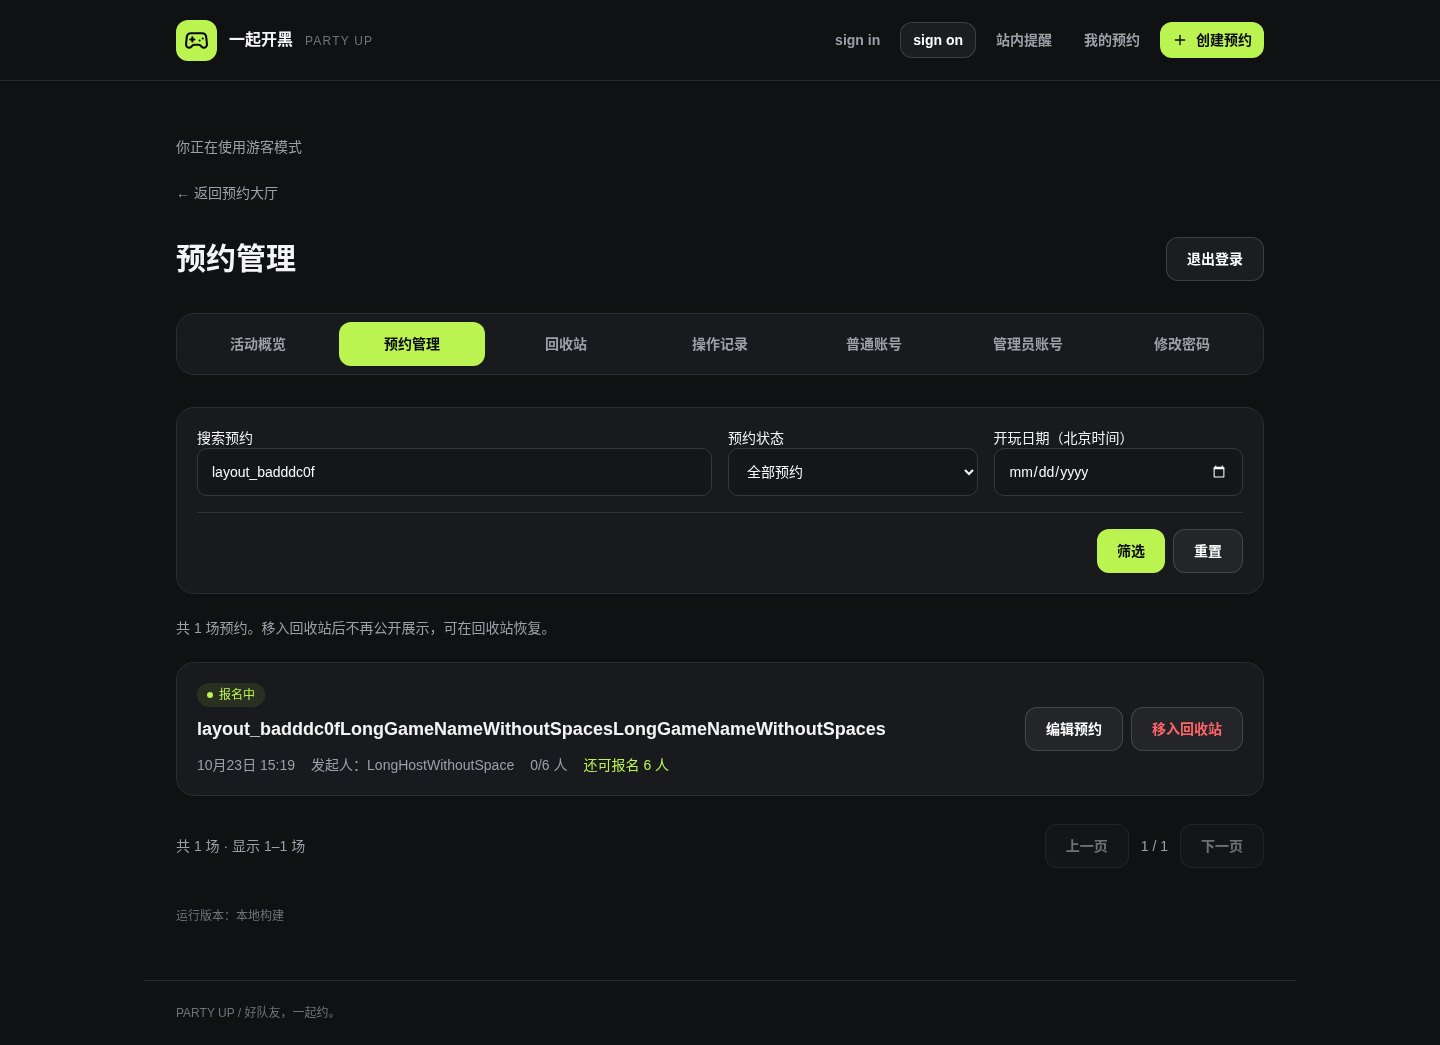
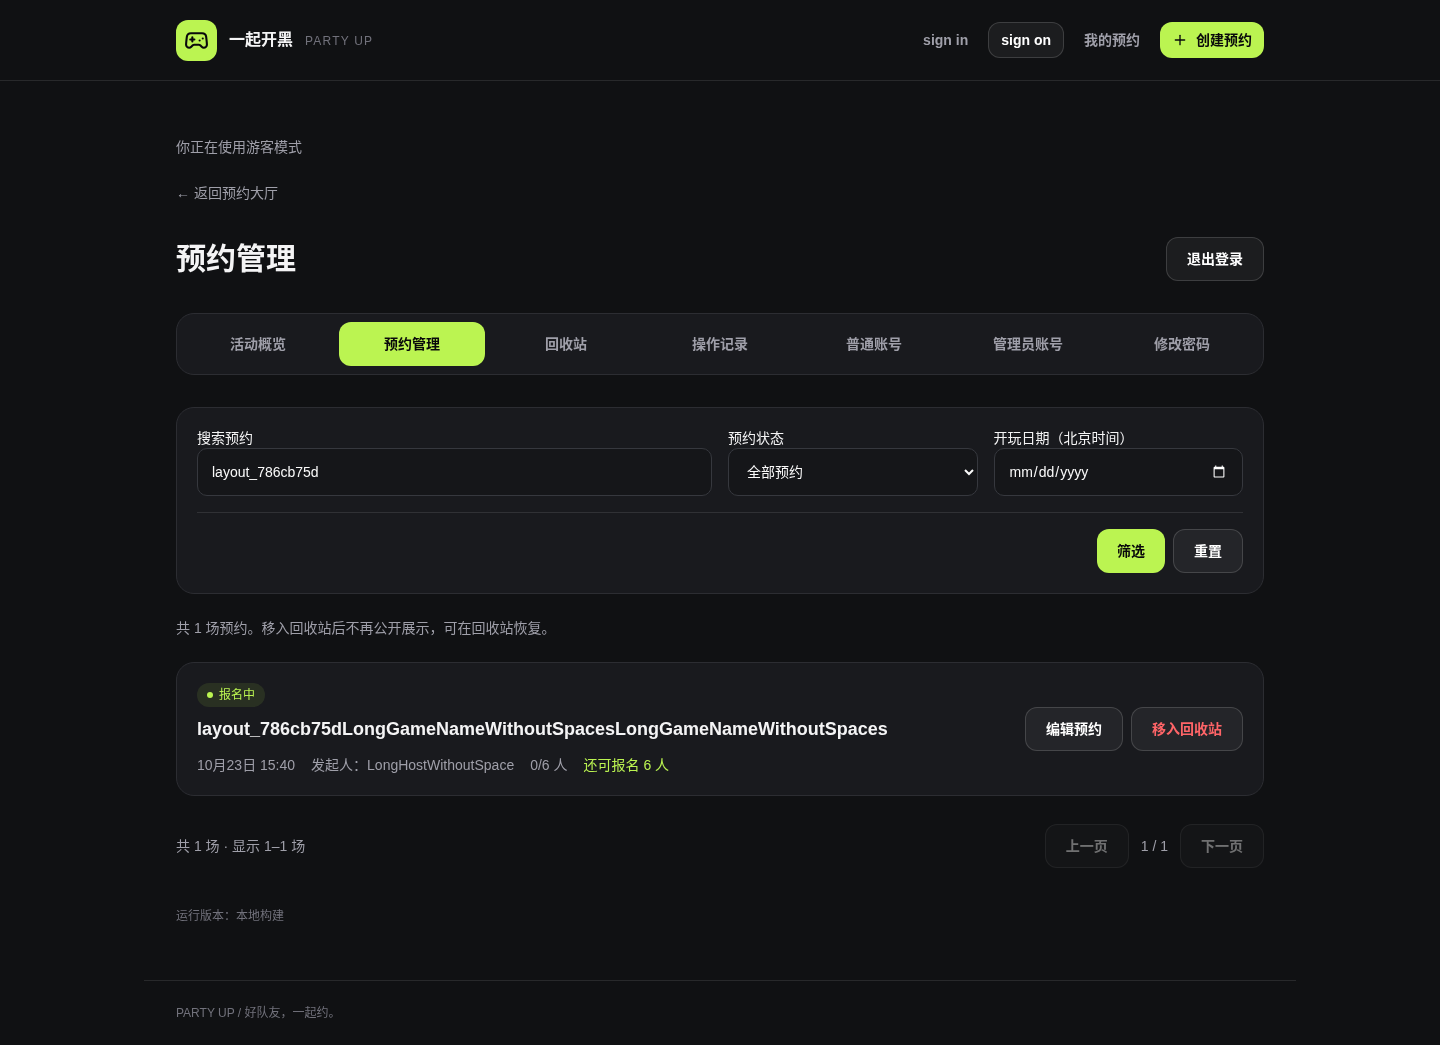
fix: hide notification navigation for guests

Changed region(s): [[0.1875, 0.6737, 0.625, 0.7043], [0.625, 0.0306, 0.75, 0.0612], [0.1875, 0.4287, 0.2188, 0.4593]]

diff --git a/app/layout.tsx b/app/layout.tsx
@@ -22,9 +22,12 @@ export default async function RootLayout({
 }) {
   const current = await currentPageViewer();
   const viewer = publicViewer(current);
-  const unread = await unreadNotificationCount(
-    current.user?.mustChangePassword ? undefined : current.token,
-  );
+  const unread =
+    viewer.mode === "user"
+      ? await unreadNotificationCount(
+          current.user?.mustChangePassword ? undefined : current.token,
+        )
+      : 0;
   return (
     <html lang="zh-CN">
       <body>
@@ -47,16 +50,18 @@ export default async function RootLayout({
                 className="flex flex-wrap items-center gap-2"
               >
                 <AccountNavigation />
-                <Button asChild size="sm" variant="ghost">
-                  <Link
-                    href="/notifications"
-                    prefetch={false}
-                    aria-label="站内提醒"
-                  >
-                    站内提醒
-                    {unread > 0 ? ` (${unread > 99 ? "99+" : unread})` : ""}
-                  </Link>
-                </Button>
+                {viewer.mode === "user" && (
+                  <Button asChild size="sm" variant="ghost">
+                    <Link
+                      href="/notifications"
+                      prefetch={false}
+                      aria-label="站内提醒"
+                    >
+                      站内提醒
+                      {unread > 0 ? ` (${unread > 99 ? "99+" : unread})` : ""}
+                    </Link>
+                  </Button>
+                )}
                 <Button asChild size="sm" variant="ghost">
                   <Link href="/my-reservations" prefetch={false}>
                     我的预约

diff --git a/tests/e2e/notifications.spec.ts b/tests/e2e/notifications.spec.ts
@@ -73,9 +73,17 @@ test("guest notifications show committed changes, persist read state, and stay i
       { reason: "不应出现在提醒的取消原因" },
       owner,
     );
+    await page.goto("/");
+    const navigation = page.getByRole("navigation", { name: "主导航" });
+    await expect(
+      navigation.getByRole("link", { name: "站内提醒", exact: true }),
+    ).toHaveCount(0);
     await context.addCookies([{ ...browserCookie(guest), url: baseURL! }]);
     await page.goto("/");
-    await page.getByRole("link", { name: "站内提醒", exact: true }).click();
+    await expect(
+      navigation.getByRole("link", { name: "站内提醒", exact: true }),
+    ).toHaveCount(0);
+    await page.goto("/notifications");
     await expect(
       page.getByRole("heading", { name: "我的提醒", exact: true }),
     ).toBeVisible();
@@ -288,7 +296,11 @@ test("partial guest claims transfer only selected reservation notifications to t
       { ...browserCookie(member), url: baseURL! },
     ]);
     const accountPage = await accountContext.newPage();
-    await accountPage.goto("/notifications");
+    await accountPage.goto("/");
+    await accountPage
+      .getByRole("navigation", { name: "主导航" })
+      .getByRole("link", { name: "站内提醒", exact: true })
+      .click();
     await expect(accountPage.locator("[data-notification-id]")).toHaveCount(1);
     await expect(accountPage.locator("[data-notification-id]")).toContainText(
       "选中关联的提醒",

diff --git a/README.md b/README.md
@@ -134,7 +134,7 @@ npm start          # 运行生产构建
 
 正式参与者从开局前 30 分钟起可确认或撤销本人到场，开局后仍可补确认；预约取消或结束后锁定。“未确认”不代表缺席。修改开局时间会清空已有到场确认。发起人和管理员可在开局后结束预约，或撤销结束。
 
-顶部“站内提醒”可查看递补、改期、取消、移除及集合信息更新事件，支持未读筛选和标为已读。提醒随页面刷新更新，不发送邮件、短信或浏览器推送。详情页还可查看公开变更记录及本人有权查看的移除记录。
+登录账号后，顶部显示“站内提醒”入口，可查看递补、改期、取消、移除及集合信息更新事件，支持未读筛选和标为已读；未登录及游客状态不显示该入口，游客仍可直接访问 `/notifications` 查看当前浏览器身份的提醒。提醒随页面刷新更新，不发送邮件、短信或浏览器推送。详情页还可查看公开变更记录及本人有权查看的移除记录。
 
 ### 个人日历
 

diff --git a/CHANGELOG.md b/CHANGELOG.md
@@ -6,6 +6,11 @@
 
 ## 更新记录
 
+### 未发布 · 游客顶部导航
+
+- 未登录及游客状态隐藏顶部“站内提醒”入口，仅已登录账号显示入口与未读数；游客提醒页面及数据保留。
+- 对未登录及游客状态跳过顶部未读数查询；类型检查、生产构建和 Chromium 桌面／移动端 6 项提醒相关浏览器回归通过，覆盖不同身份的导航、已读状态及游客提醒关联。
+
 ### 未发布 · 管理后台响应式布局
 
 - 扩展后台内容宽度，统一导航顺序、当前页高亮和移动端网格；主管理员专属入口继续按原权限显示。
